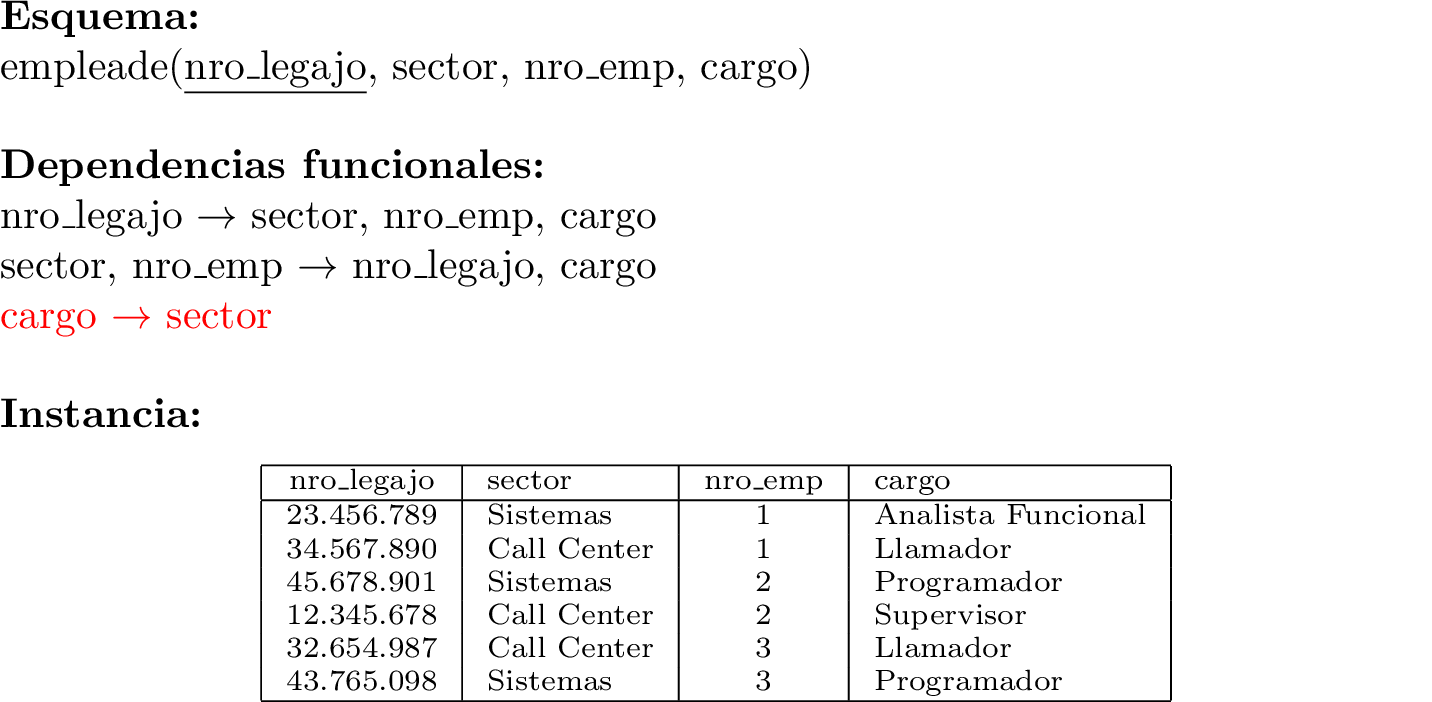
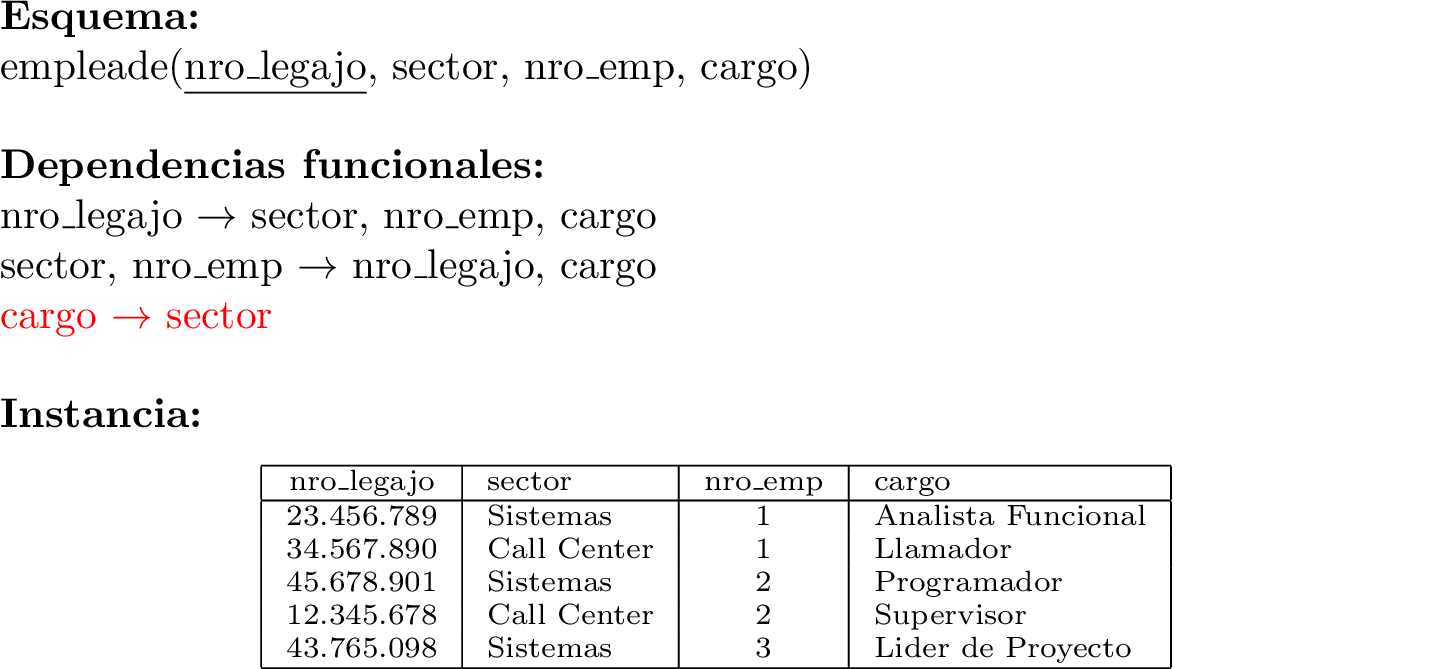
Update FN com-2

diff --git a/present/com-2/tex/fn-bcfn-ejemplo-2.tex b/present/com-2/tex/fn-bcfn-ejemplo-2.tex
@@ -5,12 +5,12 @@
 \begin{document}
 
 \textbf{Esquema:}\\
-empleade(\underline{nro\_legajo}, sector, nro\_emp, cargo)\\
+empleade(\underline{nro\_legajo}, sector, nro\_emp, cargo) \textcolor{red}{$\Rightarrow$ !BCNF}\\
 
 \textbf{Dependencias funcionales:}\\
 nro\_legajo $\rightarrow$ sector, nro\_emp, cargo\\
 sector, nro\_emp $\rightarrow$ nro\_legajo, cargo\\
-{\color{red}{cargo $\rightarrow$ sector}}\\
+{\color{red}{cargo $\rightarrow$ sector}}
 
 \textbf{Instancia:}
 \begin{center}
@@ -21,18 +21,16 @@ sector, nro\_emp $\rightarrow$ nro\_legajo, cargo\\
 	34.567.890 & Call Center & 1 & Llamador \\
 	45.678.901 & Sistemas & 2 & Programador \\
 	12.345.678 & Call Center & 2 & Supervisor \\
-	32.654.987 & Call Center & 3 & Llamador \\
-	43.765.098 & Sistemas & 3 & Programador \\\hline
+	43.765.098 & Sistemas & 3 & Lider de Proyecto \\\hline
 \end{tabular}
-
 
 
 $\Big\Downarrow$
 \end{center}
 
 \textbf{Esquemas:}\\
-empleade(\underline{nro\_legajo}, nro\_emp, cargo)\\
-cargo(\underline{nombre}, sector)\\
+empleade(\underline{nro\_legajo}, nro\_emp, cargo) \textcolor{green}{$\Rightarrow$ BCNF}\\
+cargo(\underline{nombre}, sector) \textcolor{green}{$\Rightarrow$ BCNF}
 
 \textbf{Instancias:}
 \begin{center}
@@ -43,8 +41,7 @@ cargo(\underline{nombre}, sector)\\
 	34.567.890 & 1 & Llamador \\
 	45.678.901 & 2 & Programador \\
 	12.345.678 & 2 & Supervisor \\
-	32.654.987 & 3 & Llamador \\
-	43.765.098 & 3 & Programador \\\hline
+	43.765.098 & 3 & Lider de Proyecto \\\hline
 \end{tabular}
 \quad
 \begin{tabular}{| l | l |}\hline

diff --git a/present/com-2/tex/fn-sfn-ejemplo.tex b/present/com-2/tex/fn-sfn-ejemplo.tex
@@ -1,11 +1,11 @@
 \pdfoutput=1
 \documentclass[preview]{standalone}
+\usepackage{xcolor}
 
 \begin{document}
 
-
 \textbf{Esquema:}\\
-estudiante(\underline{nro\_legajo}, nombre, apellido, \underline{materia\_aprobada}, semestre)\\
+estudiante(\underline{nro\_legajo}, nombre, apellido, \underline{materia\_aprobada}, semestre) \textcolor{red}{$\Rightarrow$ !2NF}\\
 
 \textbf{Dependencias funcionales:}\\
 nro\_legajo $\rightarrow$ nombre\\ 
@@ -28,8 +28,8 @@ nro\_legajo, materia\_aprobada $\rightarrow$ semestre \\
 $\Big\Downarrow$
 \end{center}
 \textbf{Esquemas:}\\
-estudiante(\underline{nro\_legajo}, nombre, apellido)\\
-materia\_aprobada(\underline{nro\_legajo}, \underline{materia}, semestre)\\
+estudiante(\underline{nro\_legajo}, nombre, apellido) \textcolor{green}{$\Rightarrow$ 2NF}\\
+materia\_aprobada(\underline{nro\_legajo}, \underline{materia}, semestre) \textcolor{green}{$\Rightarrow$ 2NF}\\
 
 
 \textbf{Instancias:}

diff --git a/present/com-2/tex/fn-tfn-ejemplo.tex b/present/com-2/tex/fn-tfn-ejemplo.tex
@@ -1,11 +1,12 @@
 \pdfoutput=1
 \documentclass[preview]{standalone}
+\usepackage{xcolor}
 
 \begin{document}
 
 
 \textbf{Esquema:}\\
-campeon\_grand\_slam(\underline{torneo}, \underline{a\~no}, tenista, nacionalidad)\\
+campeon\_grand\_slam(\underline{torneo}, \underline{a\~no}, tenista, nacionalidad) \textcolor{red}{$\Rightarrow$ !3NF}\\
 
 \textbf{Dependencias funcionales:}\\
 torneo, a\~no $\rightarrow$ tenista\\
@@ -30,8 +31,8 @@ $\Big\Downarrow$
 \end{center}
 
 \textbf{Esquemas:}\\
-campeon\_grand\_slam(\underline{torneo}, \underline{a\~no}, tenista)\\
-tenista(\underline{nombre}, nacionalidad)
+campeon\_grand\_slam(\underline{torneo}, \underline{a\~no}, tenista) \textcolor{green}{$\Rightarrow$ 3NF}\\
+tenista(\underline{nombre}, nacionalidad) \textcolor{green}{$\Rightarrow$ 3NF}
 
 
 \textbf{Instancias:}

diff --git a/present/com-2/tex/fn-bcfn-ejemplo-1.tex b/present/com-2/tex/fn-bcfn-ejemplo-1.tex
@@ -21,8 +21,7 @@ sector, nro\_emp $\rightarrow$ nro\_legajo, cargo\\
 	34.567.890 & Call Center & 1 & Llamador \\
 	45.678.901 & Sistemas & 2 & Programador \\
 	12.345.678 & Call Center & 2 & Supervisor \\
-	32.654.987 & Call Center & 3 & Llamador \\
-	43.765.098 & Sistemas & 3 & Programador \\\hline
+	43.765.098 & Sistemas & 3 & Lider de Proyecto \\\hline
 \end{tabular}
 \end{center}
 
